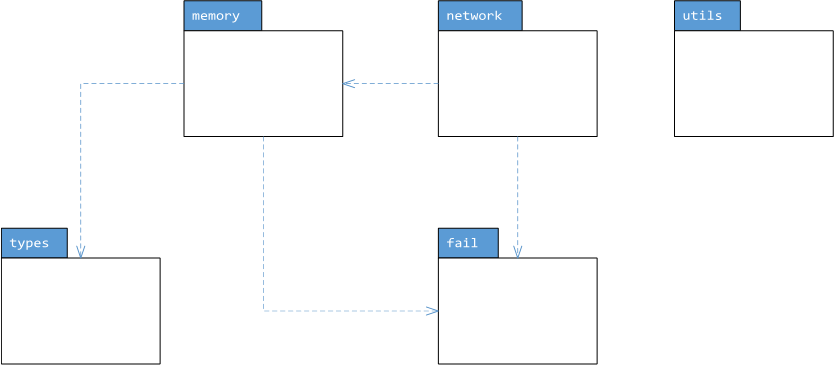
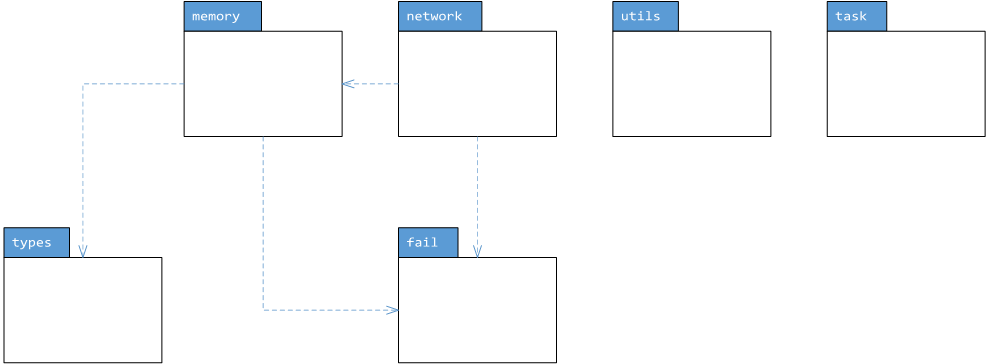
[doc] Enhancement: Updating UML Diagrams

diff --git a/etc/README.md b/etc/README.md
@@ -6,6 +6,7 @@ Architectural Diagrams
 - [Utils Module (`runtime::utils`)](#utils-module)
 - [Memory Module (`runtime::memory`)](#memory-module)
 - [Network Module (`runtime::network`)](#network-module)
+- [Task Module (`runtime::task`)](#task-module)
 
 Package Overview
 -----------------
@@ -26,3 +27,7 @@ Memory Module
 Network Module
 ---------------
 ![Network Module](./img/runtime-network.png)
+
+Task Module
+------------
+![Task Module](./img/runtime-task.png)
